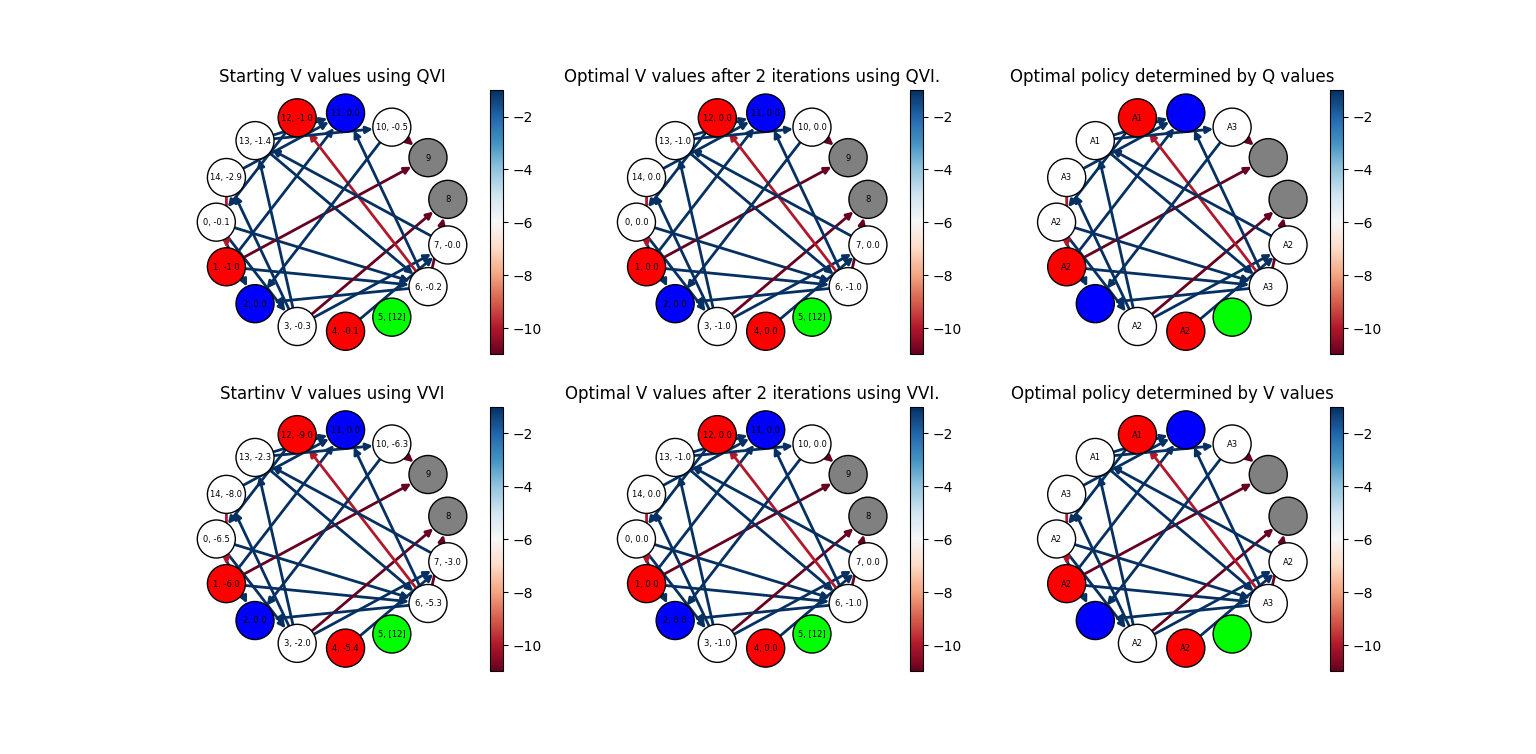
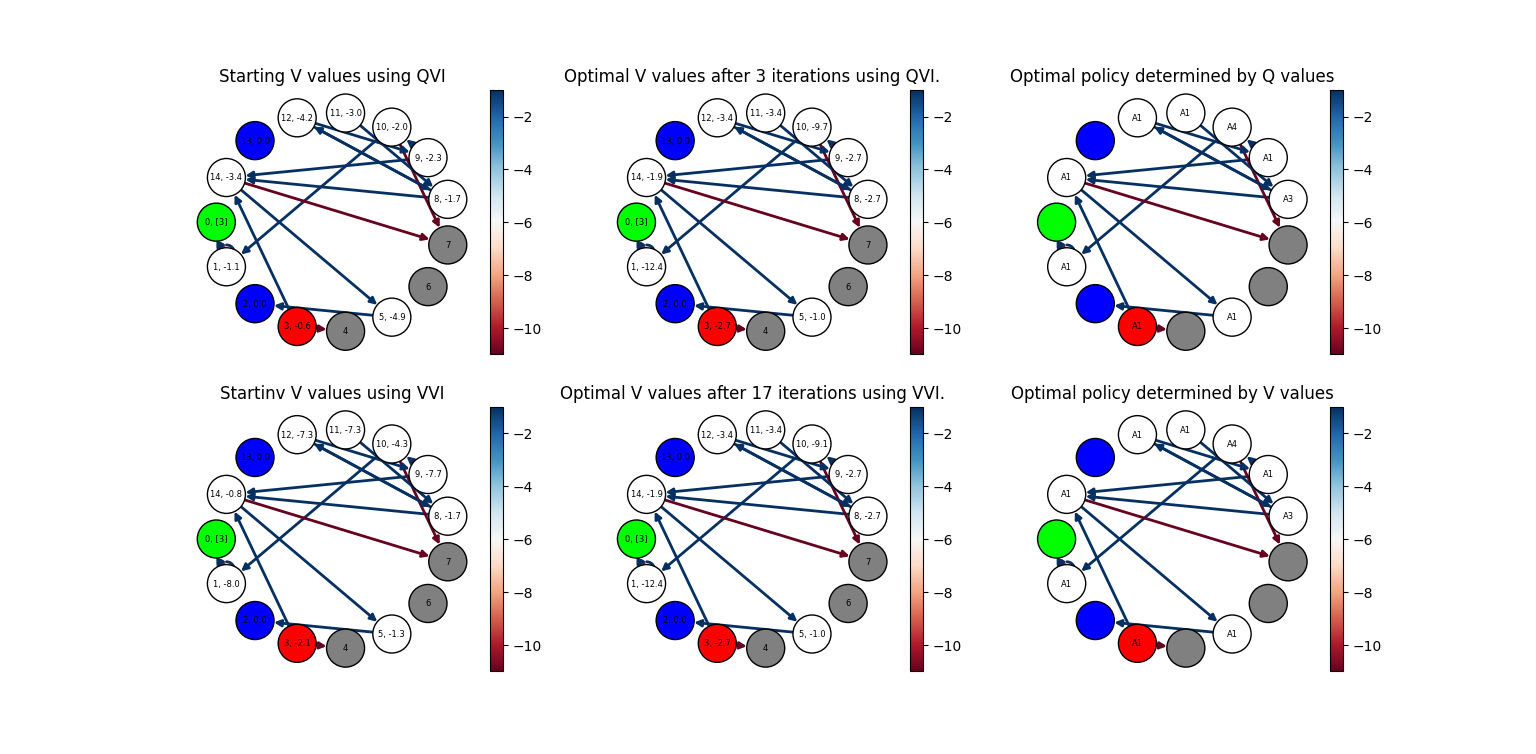
HW2: Probabilities tinkering

diff --git a/homework2/maze/env.py b/homework2/maze/env.py
@@ -1,5 +1,5 @@
 from dataclasses import dataclass
-from random import random, randint
+from random import random, randint, choice
 from typing import Any
 
 from numpy import round, ones
@@ -41,8 +41,21 @@ class Probability:
                     for a in actions:
                         self.__probability[s, a] = {}
 
+                        found_direction = False
+
                         for d in directions:
-                            self.__probability[s, a][d] = 1.0 if d == ad_map[a] else 0.0
+                            if d == ad_map[a]:
+                                self.__probability[s, a][d] = 1.0
+                                found_direction = True
+                            else:
+                                self.__probability[s, a][d] = 0.0
+
+                        # What can happen with graphs is that no direction with possible action
+                        # in ad_map can be found, so we "cheat" by adding our action to a random
+                        # direction. If user doesn't want this to happen, comment out the rest of
+                        # the code.
+                        if not found_direction and len(directions):
+                            self.__probability[s, a][choice(directions)] = 1.0
 
                 case EnvType.STOCHASTIC:
                     for a in actions:

diff --git a/homework2/maze/base.py b/homework2/maze/base.py
@@ -1,4 +1,4 @@
-from random import randint, choice
+from random import randint, choice, choices
 from typing import Any
 
 from maze.utils import *
@@ -88,15 +88,13 @@ class MazeGraph(MazeBase):
         #             self.connections[node][direction] = choice(list(self.nodes.keys()))
 
         # CUSTOM NUMBER OF DIRECTIONS USED PER NODE
+        directions = Direction.get_all_directions()
         for node in self.connections:
             if isinstance(self[node], RegularCell):
-                directions = Direction.get_all_directions()
-                no_dir = randint(1, len(directions))
-
-                for _ in range(no_dir):
-                    direction = choice(directions)
-                    directions.remove(direction)
-                    self.connections[node][direction] = choice(list(self.nodes.keys()))
+                possible_directions = choices(directions, k=2)
+                # possible_directions = directions
+                for d in possible_directions:
+                    self.connections[node][d] = choice(list(self.nodes.keys()))
 
 
 class MazeBoard(MazeBase):
